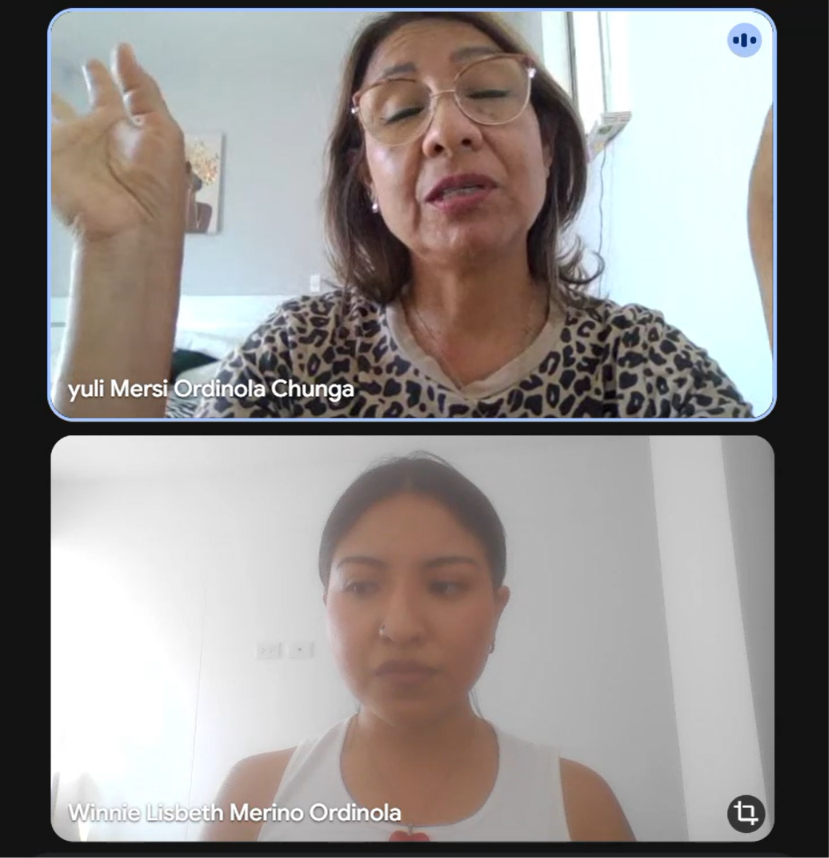
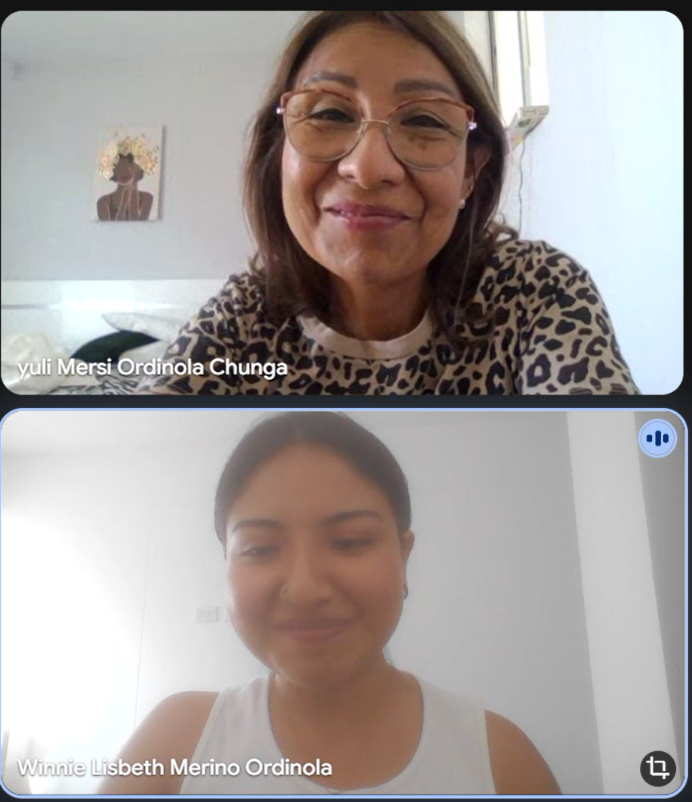
fix(interview segment 2)

diff --git a/README.md b/README.md
@@ -559,7 +559,7 @@ Fabrizzio es coordinador de operaciones de una cadena de 3 minimarkets. Gestiona
 
 El entrevistado es propietario y administrador de una cafetería de especialidad de 80 m² y gestiona todas las operaciones diarias de manera empírica. El costo de energía representa una parte significativa de sus gastos fijos (20%). Sin embargo, no revisa el detalle de su recibo, ignorando conceptos técnicos como el cargo por potencia y la tarifa comercial. Suele encender los equipos de manera rutinaria, generando picos de consumo por las tardes (hora punta) al activar luces y aire acondicionado simultáneamente por la afluencia de clientes. Ante un recibo inexplicable en campaña pasada, su única acción fue apagar equipos al azar sin conocer realmente cuáles consumían más. Estaría dispuesto a pagar una herramienta mensual si se le demuestra un ahorro tangible en el recibo, y ve con gran interés recibir avisos de exceso de consumo en tiempo real mediante notificaciones *push* en su smartphone, el cual es su principal herramienta de gestión, junto con apps bancarias.
 
-#### Segmento #2 — Entrevista 2 (Plantilla)
+#### Segmento #2 — Entrevista 2
 
 | Campo | Dato |
 | :-- | :-- |
@@ -571,7 +571,7 @@ El entrevistado es propietario y administrador de una cafetería de especialidad
 | URL del video | [Ver video en SharePoint](https://upcedupe-my.sharepoint.com/:v:/g/personal/u20231e504_upc_edu_pe/IQA8ZsGrwfiRT50MqC85e4-CATbOrSmrbNmF9zogQw8q3Go?e=wtdMMt)|
 | Timing de inicio | 00:13 |
 | Duración | 16:00 |
-| Screenshot | <img src="assets/images/interviews/needfinding/03-entrevista-propetario02.png" alt="Captura Entrevista Yuli" width="250"> |
+| Screenshot | <img src="assets/images/interviews/needfinding/04-entrevista-propetario02.png" alt="Captura Entrevista Yuli" width="250"> |
 
 **Resumen de la entrevista**
 La entrevistada es administradora de un local de alquiler para eventos de 170 m², donde se ofrecen servicios de música, almuerzos y cenas, y opera con un equipo de 8 personas (música, cocina, mozos, decoración y mantenimiento). Los recibos de luz y agua constituyen sus gastos fijos más altos debido a la actividad diaria del negocio. Sin embargo, solo revisa el monto total del recibo, sin conocer la potencia eléctrica contratada ni haber recibido nunca una propuesta de auditoría eléctrica, aunque sí contrató recientemente a un electricista para revisar el tablero de llaves térmicas. Su equipo principal de alto consumo es una refrigeradora grande que permanece encendida las 24 horas, mientras que el resto (parlantes, congeladores adicionales, luces, plancha y horno microondas) se desenchufa al cierre; aun así, atribuye los incrementos mensuales a descuidos genéricos, sin poder calcular el ahorro exacto de apagar equipos específicos. Estaría dispuesta a invertir en una herramienta de optimización si esta demuestra, comparando el historial de los últimos tres meses, un ahorro real de entre 30% y 50% (por ejemplo, bajar de 200 a 100 soles mensuales). Ve como fundamental recibir notificaciones inmediatas ante consumos excesivos o anómalos —preferentemente por WhatsApp o llamada, similar al sistema de Calidda— ya que esto le permitiría detectar el mismo día conexiones clandestinas u otros problemas. Finalmente, reflexiona junto a la entrevistadora que, a diferencia de los hogares, en los negocios el ajuste del consumo energético es indispensable por la presión de los gastos fijos y el pago de personal.
